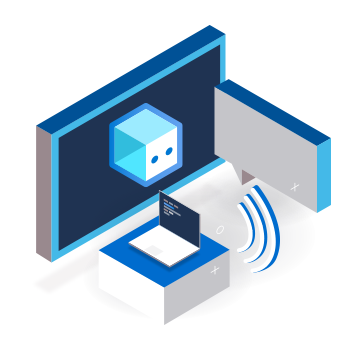
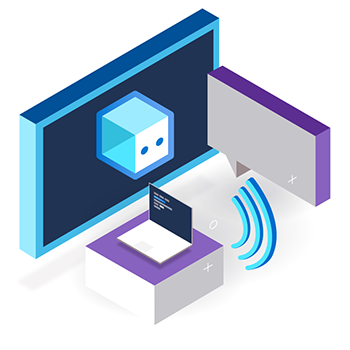
Style changes

Changed region(s): [[0.0571, 0.0286, 0.9429, 0.9429], [0.4857, 0.6571, 0.5143, 0.6857]]

diff --git a/Composer/packages/client/src/Onboarding/palette.ts b/Composer/packages/client/src/Onboarding/palette.ts
@@ -3,29 +3,27 @@
 
 import { IPalette } from 'office-ui-fabric-react';
 
-export const primaryColor = '#50e6ff';
-
 export const palette: Partial<IPalette> = {
-  themePrimary: primaryColor,
-  themeLighterAlt: '#f8feff',
-  themeLighter: '#e3fbff',
-  themeLight: '#caf7ff',
-  themeTertiary: '#95efff',
-  themeSecondary: '#64e8ff',
-  themeDarkAlt: '#47cee6',
-  themeDark: '#3caec2',
-  themeDarker: '#2c808f',
-  neutralLighterAlt: '#323232',
-  neutralLighter: '#313131',
-  neutralLight: '#2f2f2f',
-  neutralQuaternaryAlt: '#2c2c2c',
-  neutralQuaternary: '#2a2a2a',
-  neutralTertiaryAlt: '#282828',
-  neutralTertiary: 'rgba(89, 89, 89, 0)',
-  neutralSecondary: 'rgba(55, 55, 55, 0)',
-  neutralPrimaryAlt: 'rgba(47, 47, 47, 0)',
-  neutralPrimary: '#00000000',
-  neutralDark: 'rgba(21, 21, 21, 0)',
-  black: 'rgba(11, 11, 11, 0)',
-  white: '#333333',
+  themePrimary: '#5c2e91',
+  themeLighterAlt: '#040206',
+  themeLighter: '#0f0717',
+  themeLight: '#1c0e2c',
+  themeTertiary: '#381c57',
+  themeSecondary: '#522980',
+  themeDarkAlt: '#693d9c',
+  themeDark: '#7c53ac',
+  themeDarker: '#9a78c2',
+  neutralLighterAlt: '#f8f8f8',
+  neutralLighter: '#f4f4f4',
+  neutralLight: '#eaeaea',
+  neutralQuaternaryAlt: '#dadada',
+  neutralQuaternary: '#d0d0d0',
+  neutralTertiaryAlt: '#c8c8c8',
+  neutralTertiary: '#0f0f0f',
+  neutralSecondary: '#1f1f1f',
+  neutralPrimaryAlt: '#2d2d2d',
+  neutralPrimary: '#333333',
+  neutralDark: '#646464',
+  black: '#8d8d8d',
+  white: '#ffffff',
 };

diff --git a/Composer/packages/client/src/Onboarding/onboarding.tsx b/Composer/packages/client/src/Onboarding/onboarding.tsx
@@ -181,15 +181,15 @@ export const getTeachingBubble = (id: string | undefined): IComposerTeachingBubb
       return {
         children: (
           <div>
-            {formatMessage('Click on the ')}
-            <b>{formatMessage('Start Bot ')}</b>
-            {formatMessage('button. Then you can choose to ')}
-            <b>{formatMessage('Test in Bot Framework Emulator. ')}</b>
-            {formatMessage('This will open your Emulator app.')}
+            {formatMessage(
+              "This will open your Emulator application. If you don't yet have the Bot Framework Emulator installed, you can download it "
+            )}
+            <a href="https://github.com/microsoft/BotFramework-Emulator/releases/latest">{formatMessage('here.')}</a>
           </div>
         ),
         headline: formatMessage('Test your bot'),
       };
+
     default:
       return {};
   }

diff --git a/Composer/packages/client/src/Onboarding/WelcomeModal/Collapsed/styles.ts b/Composer/packages/client/src/Onboarding/WelcomeModal/Collapsed/styles.ts
@@ -4,10 +4,10 @@
 import { css } from '@emotion/core';
 import { IButtonStyles } from 'office-ui-fabric-react';
 
-import { palette, primaryColor } from '../../palette';
+import { palette } from '../../palette';
 
 export const content = css`
-  color: black;
+  color: ${palette.white};
   display: flex;
   padding: 10px;
 
@@ -16,16 +16,6 @@ export const content = css`
     margin-right: 40px;
   }
 `;
-
-export const modal = {
-  main: {
-    backgroundColor: primaryColor,
-    bottom: '30px',
-    paddingLeft: '15px',
-    position: 'absolute',
-    right: '20px',
-  },
-};
 
 export const buttonStyles: IButtonStyles = {
   icon: {

diff --git a/Composer/packages/client/src/Onboarding/TeachingBubbles/styles.ts b/Composer/packages/client/src/Onboarding/TeachingBubbles/styles.ts
@@ -7,12 +7,19 @@ import { palette } from '../palette';
 
 export const teachingBubbleTheme: ITheme = createTheme({
   defaultFontStyle: {
-    color: palette.white,
+    color: palette.themePrimary,
   },
   palette,
 });
 
 export const teachingBubbleStyles: Partial<ITeachingBubbleStyles> = {
+  bodyContent: {
+    selectors: {
+      a: {
+        color: palette.white,
+      },
+    },
+  },
   footer: {
     flexDirection: 'row-reverse',
     justifyContent: 'space-between',

diff --git a/Composer/packages/client/src/Onboarding/WelcomeModal/style.ts b/Composer/packages/client/src/Onboarding/WelcomeModal/style.ts
@@ -3,11 +3,11 @@
 
 import { IModalStyleProps, IModalStyles, IStyleFunctionOrObject } from 'office-ui-fabric-react';
 
-const primaryColor = '#50e6ff';
+import { palette } from '../palette';
 
 export const collapsedStyles: IStyleFunctionOrObject<IModalStyleProps, IModalStyles> = {
   main: {
-    backgroundColor: primaryColor,
+    backgroundColor: palette.themePrimary,
     bottom: '30px',
     color: 'white',
     paddingLeft: '15px',
